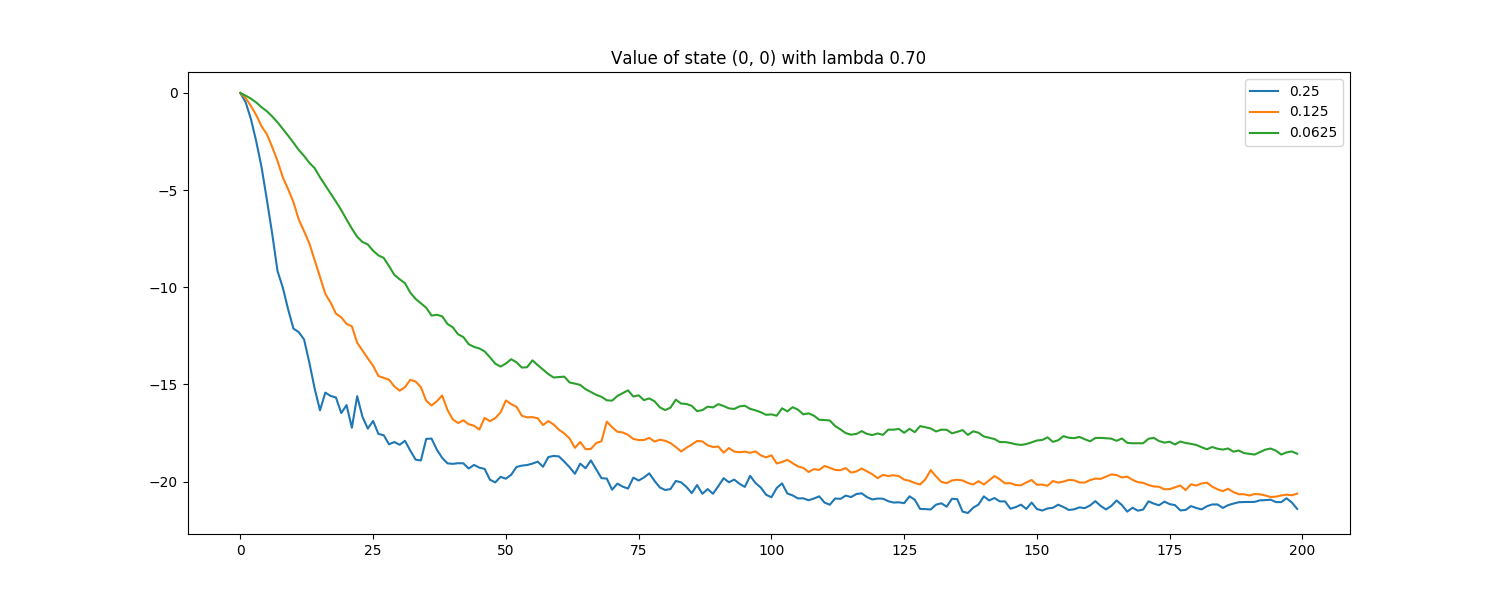
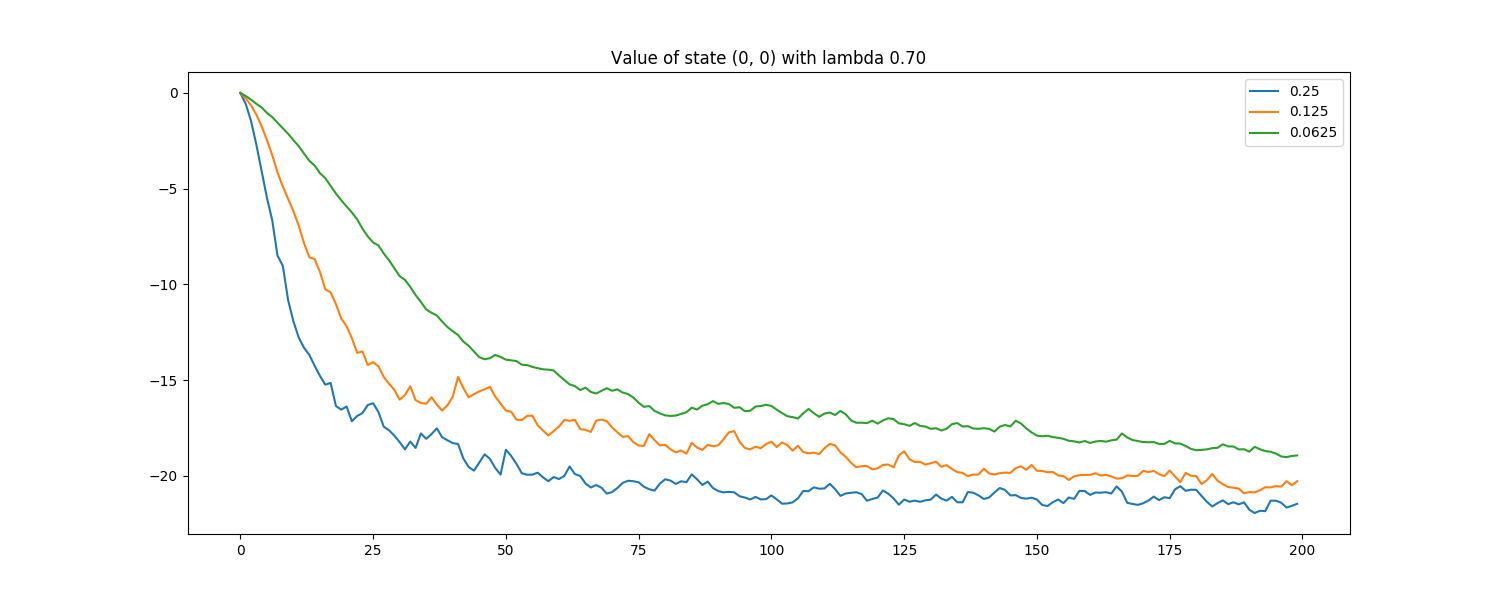
Fixed bugs

diff --git a/modelFree.py b/modelFree.py
@@ -51,7 +51,7 @@ class Policy():
 
         w: Angular velocity of the pendulum
         '''
-        if random.random() < p:
+        if random.random() < self.p:
             s = 1
         else:
             s = -1
@@ -197,7 +197,7 @@ for l, decay_factor in enumerate(decay_factor_list):
                     delta = reward + gamma * model.forward(next_state_feat) - model.forward(state_feat)
                     trace = gamma * decay_factor * trace + state_feat
 
-                    model.weights = model.weights + (alpha / tile.n_tilings) * delta * trace
+                    model.weights = model.weights + (alpha/tile.n_tilings) * delta * trace
 
                     state_feat = next_state_feat
 
@@ -213,7 +213,7 @@ for l, decay_factor in enumerate(decay_factor_list):
                 #     state = next_state
                 #     state_feat = next_state_feat
         value[k] = np.mean(val, axis=0)
-        print('Value of state (0, 0) for lambda = %.2f, alpha = %.2f = %.2f' % (decay_factor, alpha, value[k][-1]), end="")
+        print('Value of state (0, 0) for lambda = %.2f, alpha = %.2f = %.2f\n' % (decay_factor, alpha, value[k][-1]), end="")
 
     leg = []
     fig = plt.figure(figsize=(15, 6))
